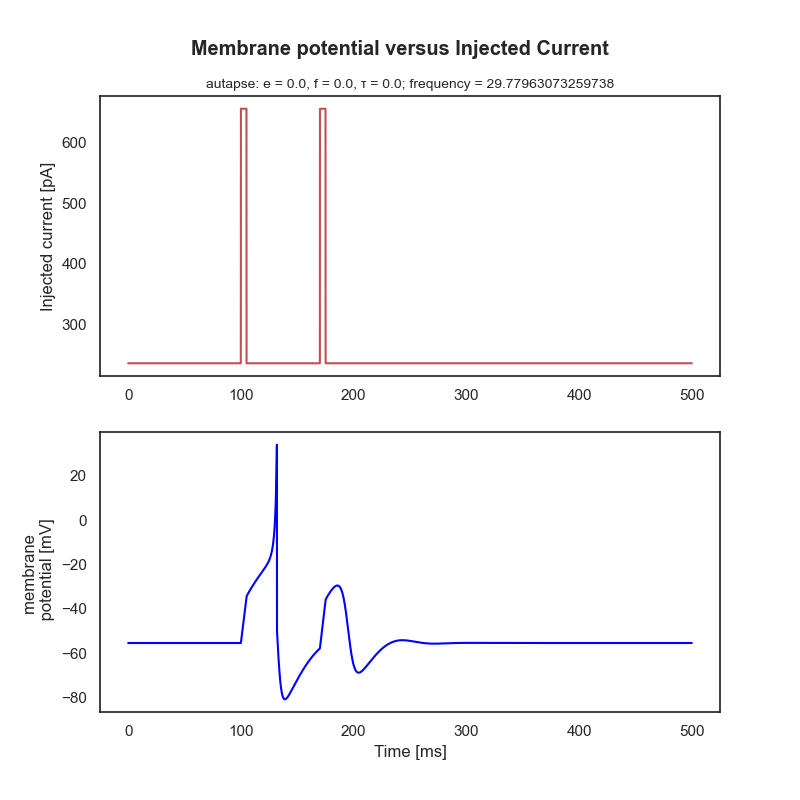
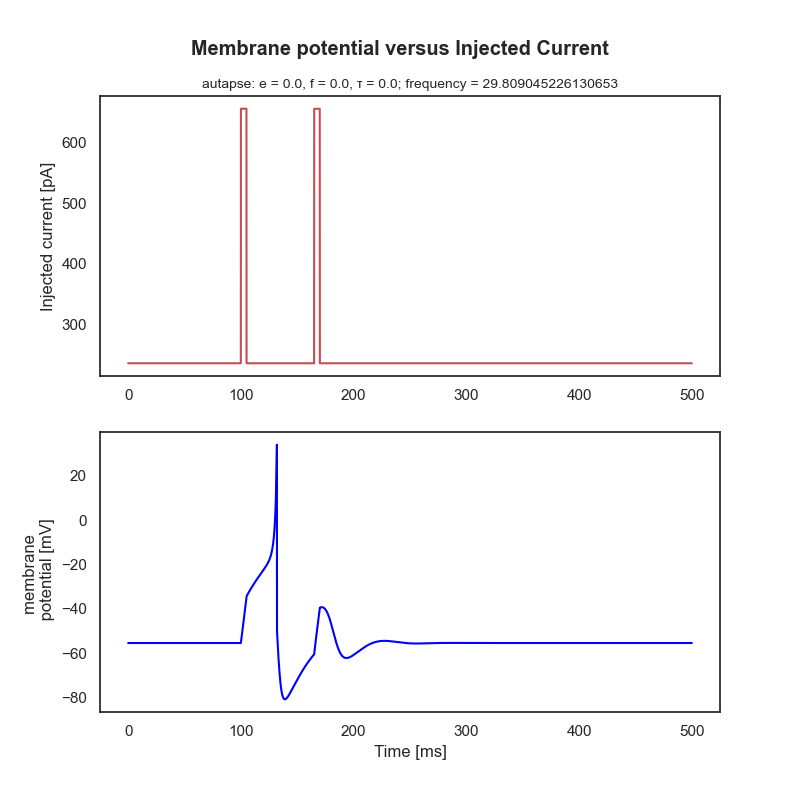
Further changes and checks to the new plots

Changed region(s): [[0.25, 0.0938, 0.7812, 0.4688], [0.375, 0.7188, 0.5312, 0.8438]]

diff --git a/Resonance/plotting.py b/Resonance/plotting.py
@@ -57,25 +57,30 @@ def test1_plots(dict, conf, param_df, args):
 
     ## Now plot the data...
     fig, ax, _ = plot_resonance_map(frequencies1, bands1)
+    ax.set_xlim((0, 50))
     if args.save: plt.savefig(f"{output_directory}\\{neuron_name}_resonator_unordered.png")
     plt.close(fig)
 
     # plot ordered by 'e'
     fig, ax, _ = plot_resonance_for_autapse_param(param_df, frequencies1, bands1, ["e"])
+    ax.set_xlim((0, 50))
     if args.save: plt.savefig(f"{output_directory}\\{neuron_name}_resonator_by_e.png")
     plt.close(fig)
     
     # plot ordered by 'f'
     fig, ax, _ = plot_resonance_for_autapse_param(param_df, frequencies1, bands1, ["f"])
+    ax.set_xlim((0, 50))
     if args.save: plt.savefig(f"{output_directory}\\{neuron_name}_resonator_by_f.png")
     plt.close(fig)
 
     # plot ordered by 'tau'
     fig, ax, _ = plot_resonance_for_autapse_param(param_df, frequencies1, bands1, ["tau"])
+    ax.set_xlim((0, 50))
     if args.save: plt.savefig(f"{output_directory}\\{neuron_name}_resonator_by_tau.png")
     plt.close(fig)
 
     fig, ax, _ = plot_resonance_for_autapse_param(param_df, frequencies1, bands1, ["e", "f"])
+    ax.set_xlim((0, 50))
     if args.save: plt.savefig(f"{output_directory}\\{neuron_name}_resonator_by_e_f.png")
     plt.close(fig)
 
@@ -97,26 +102,31 @@ def three_pulse_plots(dict, conf, param_df, args):
 
 
     fig, ax, _ = plot_resonance_map(frequencies2, bands2, title = 'Resonance map for three-pulse protocol')
+    ax.set_xlim((0, 50))
     if args.save: plt.savefig(f"{output_directory}\\{neuron_name}_resonator_3pulses_unordered.png")
     plt.close(fig)
 
     fig, ax, _ = plot_resonance_for_autapse_param(param_df, frequencies2, bands2, ["e", "f"], title = 'Resonance map for three-pulse protocol ordered by')
+    ax.set_xlim((0, 50))
     if args.save: plt.savefig(f"{output_directory}\\{neuron_name}_resonator_3pulses_by_e_f.png")
     plt.close(fig)
 
     fig, ax, im = plot_resonance_map(frequencies2, num_spikes_three_pulses, title = 'Number of spikes emitted by \nthe 3-pulse protocol')
+    ax.set_xlim((0, 50))
     #cbar = fig.colorbar(im, ax=ax)
     #cbar.set_label("Number of spikes produced")
     if args.save: plt.savefig(f"{output_directory}\\{neuron_name}_resonator_num_spikes_unordered.png")
     plt.close(fig)
 
     fig, ax, im = plot_resonance_for_autapse_param(param_df, frequencies2, num_spikes_three_pulses, ['e', 'f'], title = 'Number of spikes emitted by \nthe 3-pulse protocol')
+    ax.set_xlim((0, 50))
     #cbar = fig.colorbar(im, ax=ax)
     #cbar.set_label("Number of spikes produced")
     if args.save: plt.savefig(f"{output_directory}\\{neuron_name}_resonator_num_spikes_by_e_f.png")
     plt.close(fig)
 
     fig, ax, im = plot_resonance_for_autapse_param(param_df, frequencies2, num_spikes_three_pulses, ['tau'], title = 'Number of spikes emitted by \nthe 3-pulse protocol')
+    ax.set_xlim((0, 50))
     #cbar = fig.colorbar(im, ax=ax)
     #cbar.set_label("Number of spikes produced")
     if args.save: plt.savefig(f"{output_directory}\\{neuron_name}_resonator_num_spikes_by_tau.png")
@@ -144,7 +154,9 @@ def compare_test1_3pulse(dict, conf, param_df, args):
     print(frequencies2[:20])
 
 
-    fig, ax = plot_resonance_to_pulses(param_df, frequencies1, bands1, bands2)
+    fig, ax = plot_resonance_to_pulses(param_df, frequencies1, bands1, bands2, num_spikes_three_pulses)
+    ax[0].set_xlim((0, 50))
+    ax[1].set_xlim((0, 50))
     if args.save: plt.savefig(f"{output_directory}\\{neuron_name}_compare_T1_3P.png")
     plt.show()
 
@@ -277,4 +289,5 @@ def plot_all_indices(dict, trial_label, params, indices, plot_freq, ref_freq, ou
             fig.suptitle("Membrane potential versus Injected Current", fontweight = 'bold', y = 0.95)
             ax[0].set_title(f"autapse: e = {e}, f = {f}, \u03c4 = {tau}; frequency = {freq_actual}", fontsize = 10)
             plt.savefig(out_dir + f"\\{trial_label.replace(' ', '_')}_idx{i}_f{freq}.png")
+            plt.close(fig)
 

diff --git a/Resonance/simulation.py b/Resonance/simulation.py
@@ -114,7 +114,7 @@ def sim(args, conf, SUBSET = False):
         print(f"Peak Resonance: {peak_resonance}")
 
         # 3 pulse test
-        frequencies2, bands2, num_spikes_three_pulses, pulse_times = three_pulse_test(conf, params_arr, SUBSET) 
+        frequencies2, bands2, num_spikes_three_pulses = three_pulse_test(conf, params_arr, SUBSET) 
 
         ## 2nd test: a train of pulses all equally spaced. We want to see if a spike occurrs on subsequent pulses
         N_pulses, multipulse_freq, num_spikes, spike_freq, spike_times, pulse_starts = second_test(conf, params_arr, peak_resonance, pulse_height+10, time_to_spike, SUBSET)
@@ -126,7 +126,7 @@ def sim(args, conf, SUBSET = False):
         # At this stage just save the outputs
         results_dict = {"Parameters": params_arr,
                         "Simulation 1": {"frequencies": frequencies1, "bands": bands1},
-                        "Three pulses": {"frequencies": frequencies2, "bands": bands2, "num_spikes": num_spikes_three_pulses, "pulse times": pulse_times},
+                        "Three pulses": {"frequencies": frequencies2, "bands": bands2, "num_spikes": num_spikes_three_pulses},
                         "Simulation 2": {"multipulse_freq": multipulse_freq, "num_spikes": num_spikes, "spike_freq": spike_freq, "spike_times": spike_times, "pulse_starts": pulse_starts}}
 
         # save the results dict as a pickle
@@ -206,7 +206,7 @@ def first_test(conf, params_arr, SUBSET):
     spike_boolean = np.zeros(N_sims)
 
     for n in range(N_sims):
-        if len(spikes[n, np.isnan(spikes[n])]) != 1:        # if 2 spikes generated
+        if len(spikes[n, ~np.isnan(spikes[n])]) > 1:        # if 2 spikes generated
             spike_boolean[n] = 1
         pulse_times = np.argwhere(I_inj[n, :] > threshold) * dt                     # pulse times in ms
         pulse2_start[n] = pulse_times[np.where(pulse_times > pulse1_end)][0]        # start time of the second pulse, ms
@@ -219,14 +219,13 @@ def first_test(conf, params_arr, SUBSET):
     resonant_ISI = resonant_ISI[0, :]   # only take the first row as all rows are identical
     resonant_f = 1000/resonant_ISI # represents the frequency of the pulses w.r.t the spike time
     """
-    frequencies = 1000/ISI_range    # convert pulse intervals to frequency
 
     bands = spike_boolean.reshape((N_neurons, N_freq), order = 'F') # where 2 spikes were generated. Maps to the frequencies.
     
     if SUBSET:
-        return X, T, spikes, I_inj, frequencies, bands, pulse_height, time_to_spike
+        return X, T, spikes, I_inj, freq_range, bands, pulse_height, time_to_spike
     # else
-    return frequencies, bands, pulse_height, time_to_spike
+    return freq_range, bands, pulse_height, time_to_spike
 
 
 def three_pulse_test(conf, params_arr, SUBSET):
@@ -301,7 +300,7 @@ def three_pulse_test(conf, params_arr, SUBSET):
     num_spikes = np.ones(N_sims)   # will only count number of spikes > 1, otherwise 1
 
     for n in range(N_sims):
-        if len(spikes[n, np.isnan(spikes[n])]) != 2:        # if 2 or more spikes generated
+        if len(spikes[n, ~np.isnan(spikes[n])]) > 1:        # if 2 or more spikes generated
             spike_boolean[n] = 1                                     # register successful run.
             num_spikes[n] = len(spikes[n, ~np.isnan(spikes[n])])     # actual number of spikes can be 2 or 3, else 1 (initial spike).
 

diff --git a/Resonance/functions.py b/Resonance/functions.py
@@ -264,7 +264,6 @@ def plot_resonance_map(frequencies, bands, fig = None, ax = None, title = 'Reson
         fig, ax = plt.subplots(1, 1, figsize = (8, 8))
 
     unique_vals = np.unique(bands)
-    print(unique_vals)
     num_vals = len(unique_vals)
     base_cmap = plt.cm.get_cmap("Greys", num_vals)
     im = ax.imshow(bands, origin = 'lower', cmap = base_cmap, aspect = 'auto', extent = [frequencies[0], frequencies[-1], 0, np.shape(bands)[0]])
@@ -353,7 +352,7 @@ def plot_resonance_for_autapse_param(param_df, frequencies, bands, autapse_param
 
     return fig, ax, im
 
-def plot_resonance_to_pulses(param_df, frequencies1, bands1, bands2, autapse_param = None, title = "Resonance by pulse number"):
+def plot_resonance_to_pulses(param_df, frequencies1, bands1, bands2, num_spikes, autapse_param = None, title = "Resonance by pulse number"):
     """
     Subtract test 1 resonance from 3 pulses resonance. Determines if pulse 3 caused the 2nd spike.
     1st axis plots where the second pulse produced a spike (basically just test 1)
@@ -361,13 +360,17 @@ def plot_resonance_to_pulses(param_df, frequencies1, bands1, bands2, autapse_par
     """
     
     fig, ax = plt.subplots(2, 1, figsize = (8, 8), constrained_layout = True)
+    
+    where_allthree = num_spikes == 3
+    where_onlyfirst = bands1 - where_allthree
+    where_onlylast = num_spikes - 1 - bands1 - where_allthree
 
     if autapse_param is None:
-        fig, ax[0], _ = plot_resonance_map(frequencies1, bands1, fig, ax[0])
-        fig, ax[1], _ = plot_resonance_map(frequencies1, bands2-bands1, fig, ax[1])
+        fig, ax[0], _ = plot_resonance_map(frequencies1, where_onlyfirst, fig, ax[0])
+        fig, ax[1], _ = plot_resonance_map(frequencies1, where_onlylast, fig, ax[1])
     else:
-        fig, ax[0], _ = plot_resonance_for_autapse_param(param_df, frequencies1, bands1, autapse_param, fig, ax[0])
-        fig, ax[1], _ = plot_resonance_for_autapse_param(param_df, frequencies1, bands2-bands1, autapse_param, fig, ax[1])
+        fig, ax[0], _ = plot_resonance_for_autapse_param(param_df, frequencies1, where_onlyfirst, autapse_param, fig, ax[0])
+        fig, ax[1], _ = plot_resonance_for_autapse_param(param_df, frequencies1, where_onlylast, autapse_param, fig, ax[1])
     
 
     fig.suptitle(title, fontsize = 22)
@@ -375,7 +378,6 @@ def plot_resonance_to_pulses(param_df, frequencies1, bands1, bands2, autapse_par
     ax[1].set_title("Resonance to third pulse only", fontsize = 16)
 
     return fig, ax
-    # Now for third pulse
 
 
 
